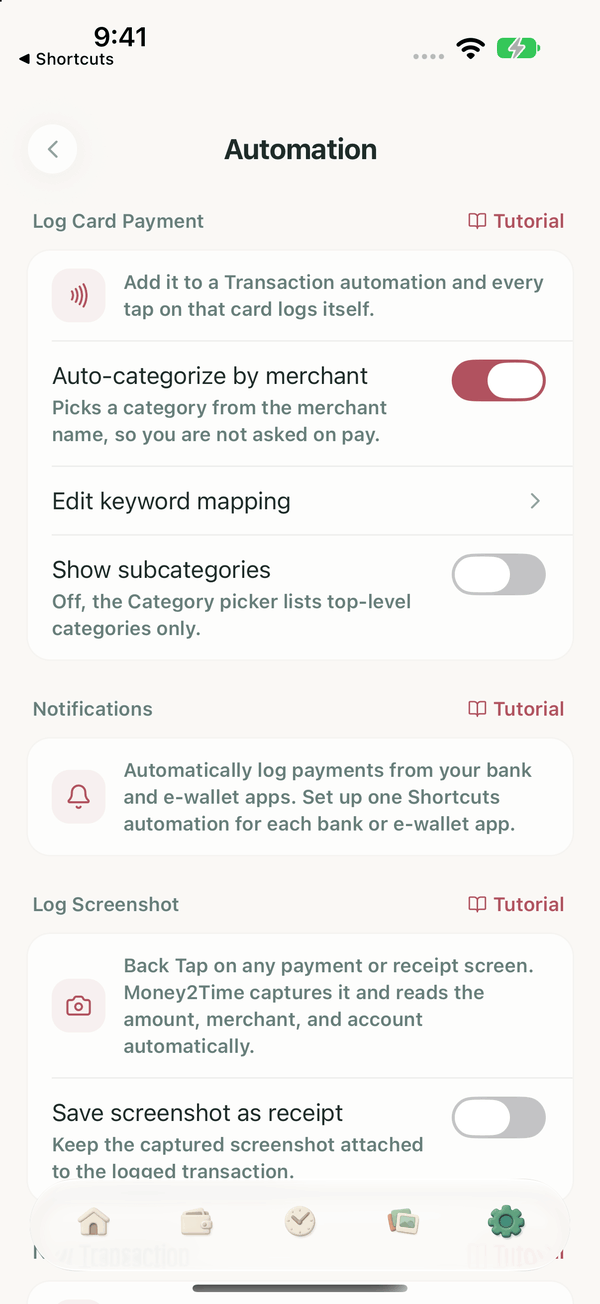
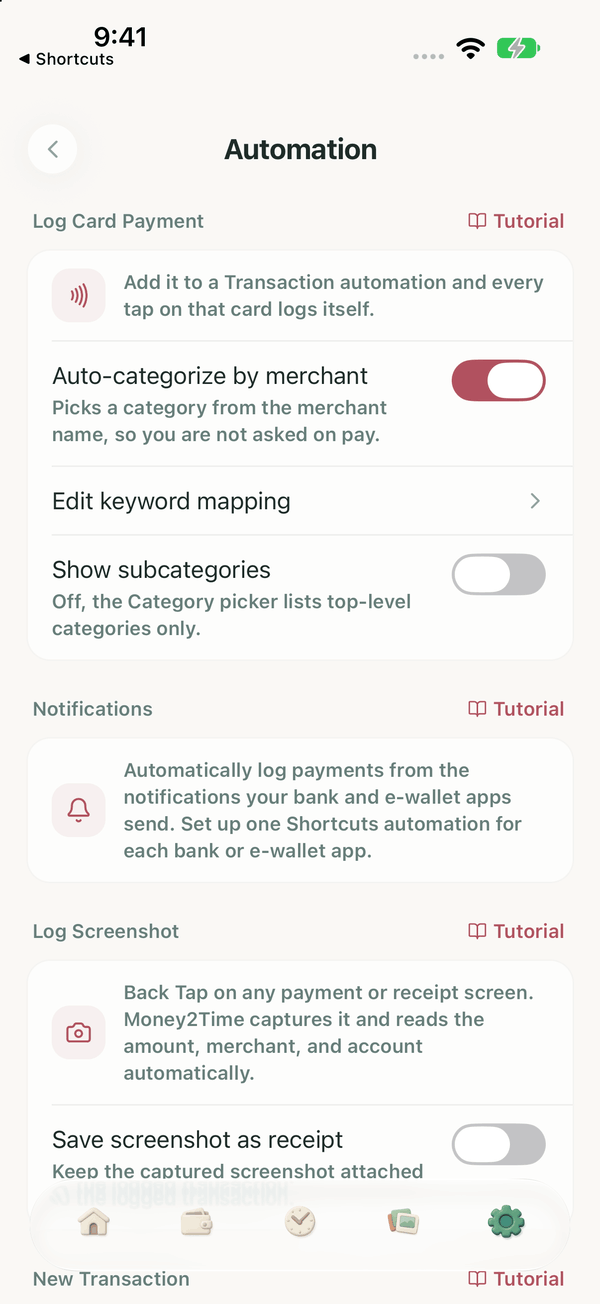
Tighten Notifications copy after review
- Quote the row and switch names in the Android tutorial's first step and
  say "Tap" rather than "Open", so "Log from notifications" no longer
  reads as part of the sentence.
- Say on the iOS Automation card that payments are logged from the
  notifications bank and e-wallet apps send, in all 24 locales.
- Fix the Korean and Turkish suffixes after "Log Notification".
- Update comments that still named the old action or screen.

diff --git a/lib/i18n/locales/th.ts b/lib/i18n/locales/th.ts
@@ -1202,7 +1202,7 @@ const th = {
       payment_alerts_status_off: 'ยังไม่ได้ตั้งค่า',
       payment_alerts_status_apps_one: 'เปิดสำหรับ %{count} แอป',
       payment_alerts_status_apps_other: 'เปิดสำหรับ %{count} แอป',
-      payment_alerts_android_step_1: 'เปิด บันทึกจากการแจ้งเตือน แล้วเปิด อ่านการแจ้งเตือน',
+      payment_alerts_android_step_1: 'แตะ “บันทึกจากการแจ้งเตือน” แล้วเปิด “อ่านการแจ้งเตือน”',
       payment_alerts_android_step_2:
         'Android จะเปิดหน้าสิทธิ์เข้าถึงการแจ้งเตือน หา Money2Time แล้วเปิด',
       payment_alerts_android_step_3:
@@ -2537,7 +2537,8 @@ const th = {
     title: 'การแจ้งเตือน',
     intro_android:
       'Money2Time อ่านการแจ้งเตือนการชำระเงินจากแอปธนาคารและแอปวอลเล็ตที่คุณเลือก แล้วบันทึกการชำระเงินแต่ละรายการให้คุณ การแจ้งเตือนจะถูกอ่านบนโทรศัพท์เครื่องนี้และไม่ถูกอัปโหลด',
-    intro_ios: 'บันทึกการชำระเงินจากแอปธนาคารและกระเป๋าเงินอิเล็กทรอนิกส์โดยอัตโนมัติ',
+    intro_ios:
+      'บันทึกการชำระเงินจากการแจ้งเตือนของแอปธนาคารและกระเป๋าเงินอิเล็กทรอนิกส์โดยอัตโนมัติ',
     section_status: 'สถานะ',
     master_label: 'อ่านการแจ้งเตือน',
     master_hint: 'บันทึกการชำระเงินจากแอปที่คุณเลือก',

diff --git a/lib/i18n/locales/hi.ts b/lib/i18n/locales/hi.ts
@@ -1215,7 +1215,8 @@ const hi = {
       payment_alerts_status_off: 'सेट अप नहीं',
       payment_alerts_status_apps_one: '%{count} ऐप के लिए चालू',
       payment_alerts_status_apps_other: '%{count} ऐप्स के लिए चालू',
-      payment_alerts_android_step_1: 'सूचनाओं से दर्ज करें खोलें और सूचनाएं पढ़ें चालू करें।',
+      payment_alerts_android_step_1:
+        '“सूचनाओं से दर्ज करें” पर टैप करें और “सूचनाएं पढ़ें” चालू करें।',
       payment_alerts_android_step_2:
         'Android सूचना पहुंच की स्क्रीन खोलता है। Money2Time ढूंढें और उसे चालू करें।',
       payment_alerts_android_step_3:
@@ -2573,7 +2574,7 @@ const hi = {
     title: 'सूचनाएं',
     intro_android:
       'Money2Time आपके चुने हुए बैंकिंग और वॉलेट ऐप्स की भुगतान सूचनाएं पढ़ता है और हर भुगतान आपके लिए दर्ज करता है। सूचनाएं इसी फ़ोन पर पढ़ी जाती हैं और कभी अपलोड नहीं होतीं।',
-    intro_ios: 'अपने बैंक और ई-वॉलेट ऐप के भुगतान अपने आप दर्ज करें।',
+    intro_ios: 'अपने बैंक और ई-वॉलेट ऐप की सूचनाओं से भुगतान अपने आप दर्ज करें।',
     section_status: 'स्थिति',
     master_label: 'सूचनाएं पढ़ें',
     master_hint: 'आपके चुने हुए ऐप्स के भुगतान दर्ज करता है।',

diff --git a/lib/i18n/locales/ko.ts b/lib/i18n/locales/ko.ts
@@ -1201,7 +1201,7 @@ const ko = {
       payment_alerts_status_off: '설정 안 됨',
       payment_alerts_status_apps_one: '앱 %{count}개에서 켜짐',
       payment_alerts_status_apps_other: '앱 %{count}개에서 켜짐',
-      payment_alerts_android_step_1: '알림으로 기록을 열고 알림 읽기를 켜세요.',
+      payment_alerts_android_step_1: '“알림으로 기록”을 누르고 “알림 읽기”를 켜세요.',
       payment_alerts_android_step_2:
         'Android의 알림 접근 화면이 열립니다. Money2Time을 찾아 켜세요.',
       payment_alerts_android_step_3:
@@ -1215,7 +1215,7 @@ const ko = {
       payment_alerts_ios_step_1:
         'Shortcuts를 열고 +, Edit를 누르세요. 편집기에서 Automation을 누르세요.',
       payment_alerts_ios_step_2: 'Notification을 검색해 선택하세요.',
-      payment_alerts_ios_step_3: 'Log Notification를 검색해 추가하세요.',
+      payment_alerts_ios_step_3: 'Log Notification을 검색해 추가하세요.',
       payment_alerts_ios_step_4: 'Log Notification에서 Message, Select Variable을 누르세요.',
       payment_alerts_ios_step_6:
         '동작 화살표를 탭한 다음 Account를 탭하세요. 이 앱의 결제를 기록할 계좌를 선택하세요. Category를 비워 두면 키워드로 자동 분류됩니다.',
@@ -2548,7 +2548,7 @@ const ko = {
     title: '알림',
     intro_android:
       'Money2Time이 선택한 은행 앱과 간편결제 앱의 결제 알림을 읽고 결제를 하나하나 기록합니다. 알림은 이 기기에서만 읽으며 업로드되지 않습니다.',
-    intro_ios: '은행 및 전자 지갑 앱의 결제를 자동으로 기록합니다.',
+    intro_ios: '은행 및 전자 지갑 앱의 알림으로 결제를 자동으로 기록합니다.',
     section_status: '상태',
     master_label: '알림 읽기',
     master_hint: '선택한 앱의 결제를 기록합니다.',

diff --git a/lib/i18n/locales/tr.ts b/lib/i18n/locales/tr.ts
@@ -1226,7 +1226,7 @@ const tr = {
       payment_alerts_status_apps_one: '%{count} uygulama için açık',
       payment_alerts_status_apps_other: '%{count} uygulama için açık',
       payment_alerts_android_step_1:
-        'Bildirimlerden kaydet bölümünü açıp Bildirimleri oku seçeneğini etkinleştirin.',
+        '“Bildirimlerden kaydet” bölümüne dokunup “Bildirimleri oku” seçeneğini etkinleştirin.',
       payment_alerts_android_step_2:
         "Android bildirim erişimi ekranını açar. Money2Time'ı bulun ve açın.",
       payment_alerts_android_step_3:
@@ -1241,7 +1241,7 @@ const tr = {
       payment_alerts_ios_step_1:
         'Shortcuts uygulamasında +, ardından Edit seçeneğine dokunun. Düzenleyicide Automation seçeneğine dokunun.',
       payment_alerts_ios_step_2: 'Notification arayıp seçin.',
-      payment_alerts_ios_step_3: 'Log Notification’i arayın ve ekleyin.',
+      payment_alerts_ios_step_3: 'Log Notification eylemini arayıp ekleyin.',
       payment_alerts_ios_step_4:
         'Log Notification içinde Message, ardından Select Variable seçeneğine dokunun.',
       payment_alerts_ios_step_6:
@@ -2593,7 +2593,7 @@ const tr = {
     title: 'Bildirimler',
     intro_android:
       'Money2Time, seçtiğiniz banka ve cüzdan uygulamalarının ödeme bildirimlerini okur ve her ödemeyi sizin için kaydeder. Bildirimler bu telefonda okunur ve asla yüklenmez.',
-    intro_ios: 'Banka ve e-cüzdan uygulamalarınızdaki ödemeleri otomatik kaydedin.',
+    intro_ios: 'Banka ve e-cüzdan uygulamalarınızın bildirimlerindeki ödemeleri otomatik kaydedin.',
     section_status: 'Durum',
     master_label: 'Bildirimleri oku',
     master_hint: 'Seçtiğiniz uygulamalardaki ödemeleri kaydeder.',

diff --git a/lib/i18n/locales/vi.ts b/lib/i18n/locales/vi.ts
@@ -1211,7 +1211,7 @@ const vi = {
       payment_alerts_status_off: 'Chưa thiết lập',
       payment_alerts_status_apps_one: 'Bật cho %{count} ứng dụng',
       payment_alerts_status_apps_other: 'Bật cho %{count} ứng dụng',
-      payment_alerts_android_step_1: 'Mở Ghi từ thông báo và bật Đọc thông báo.',
+      payment_alerts_android_step_1: 'Nhấn “Ghi từ thông báo” rồi bật “Đọc thông báo”.',
       payment_alerts_android_step_2:
         'Android mở màn hình quyền truy cập thông báo. Tìm Money2Time và bật lên.',
       payment_alerts_android_step_3:
@@ -2565,7 +2565,7 @@ const vi = {
     title: 'Thông báo',
     intro_android:
       'Money2Time đọc thông báo thanh toán từ các ứng dụng ngân hàng và ví điện tử bạn chọn, rồi ghi lại từng khoản thanh toán cho bạn. Thông báo được đọc trên điện thoại này và không bao giờ được tải lên.',
-    intro_ios: 'Tự động ghi lại thanh toán từ các ứng dụng ngân hàng và ví điện tử.',
+    intro_ios: 'Tự động ghi lại thanh toán từ thông báo của các ứng dụng ngân hàng và ví điện tử.',
     section_status: 'Trạng thái',
     master_label: 'Đọc thông báo',
     master_hint: 'Ghi lại thanh toán từ các ứng dụng bạn chọn.',

diff --git a/lib/i18n/locales/pl.ts b/lib/i18n/locales/pl.ts
@@ -1223,7 +1223,8 @@ const pl = {
       payment_alerts_status_off: 'Nieskonfigurowane',
       payment_alerts_status_apps_one: 'Włączone dla %{count} aplikacji',
       payment_alerts_status_apps_other: 'Włączone, aplikacje: %{count}',
-      payment_alerts_android_step_1: 'Otwórz Zapisuj z powiadomień i włącz Odczytuj powiadomienia.',
+      payment_alerts_android_step_1:
+        'Stuknij „Zapisuj z powiadomień” i włącz „Odczytuj powiadomienia”.',
       payment_alerts_android_step_2:
         'Android otworzy ekran dostępu do powiadomień. Znajdź Money2Time i włącz go.',
       payment_alerts_android_step_3:
@@ -2592,7 +2593,8 @@ const pl = {
     title: 'Powiadomienia',
     intro_android:
       'Money2Time odczytuje powiadomienia o płatnościach z wybranych aplikacji bankowych i portfeli, a potem zapisuje za Ciebie każdą płatność. Powiadomienia są odczytywane na tym telefonie i nigdy nie są wysyłane.',
-    intro_ios: 'Automatycznie zapisuj płatności z aplikacji bankowych i portfeli elektronicznych.',
+    intro_ios:
+      'Automatycznie zapisuj płatności z powiadomień aplikacji bankowych i portfeli elektronicznych.',
     section_status: 'Stan',
     master_label: 'Odczytuj powiadomienia',
     master_hint: 'Zapisuje płatności z wybranych aplikacji.',

diff --git a/lib/i18n/locales/pt.ts b/lib/i18n/locales/pt.ts
@@ -1225,7 +1225,8 @@ const pt = {
       payment_alerts_status_off: 'Não configurado',
       payment_alerts_status_apps_one: 'Ativado para %{count} app',
       payment_alerts_status_apps_other: 'Ativado para %{count} apps',
-      payment_alerts_android_step_1: 'Abra Registrar das notificações e ative Ler notificações.',
+      payment_alerts_android_step_1:
+        'Toque em “Registrar das notificações” e ative “Ler notificações”.',
       payment_alerts_android_step_2:
         'O Android abre a tela de acesso a notificações. Encontre o Money2Time e ative.',
       payment_alerts_android_step_3:
@@ -2597,7 +2598,8 @@ const pt = {
     title: 'Notificações',
     intro_android:
       'O Money2Time lê as notificações de pagamento dos apps de banco e carteiras que você escolher e registra cada pagamento para você. As notificações são lidas neste celular e nunca são enviadas.',
-    intro_ios: 'Registre automaticamente pagamentos dos seus apps de banco e carteiras digitais.',
+    intro_ios:
+      'Registre automaticamente pagamentos das notificações dos seus apps de banco e carteiras digitais.',
     section_status: 'Status',
     master_label: 'Ler notificações',
     master_hint: 'Registra os pagamentos dos apps que você escolher.',

diff --git a/lib/i18n/locales/fr.ts b/lib/i18n/locales/fr.ts
@@ -1233,7 +1233,7 @@ const fr = {
       payment_alerts_status_apps_one: 'Activé pour %{count} appli',
       payment_alerts_status_apps_other: 'Activé pour %{count} applis',
       payment_alerts_android_step_1:
-        'Ouvrez Enregistrer depuis les notifications et activez Lire les notifications.',
+        'Touchez « Enregistrer depuis les notifications » et activez « Lire les notifications ».',
       payment_alerts_android_step_2:
         'Android ouvre l’écran d’accès aux notifications. Trouvez Money2Time et activez-le.',
       payment_alerts_android_step_3:
@@ -2616,7 +2616,7 @@ const fr = {
     intro_android:
       'Money2Time lit les notifications de paiement des applis bancaires et portefeuilles que vous choisissez, et enregistre chaque paiement pour vous. Les notifications sont lues sur ce téléphone et ne sont jamais envoyées en ligne.',
     intro_ios:
-      'Enregistrez automatiquement les paiements de vos apps bancaires et portefeuilles électroniques.',
+      'Enregistrez automatiquement les paiements à partir des notifications de vos apps bancaires et portefeuilles électroniques.',
     section_status: 'État',
     master_label: 'Lire les notifications',
     master_hint: 'Enregistre les paiements des applis que vous choisissez.',

diff --git a/lib/i18n/locales/fil.ts b/lib/i18n/locales/fil.ts
@@ -1237,7 +1237,7 @@ const fil = {
       payment_alerts_status_apps_one: 'Naka-on para sa %{count} app',
       payment_alerts_status_apps_other: 'Naka-on para sa %{count} na app',
       payment_alerts_android_step_1:
-        'Buksan ang Itala mula sa mga notification at i-on ang Basahin ang mga notification.',
+        'I-tap ang “Itala mula sa mga notification” at i-on ang “Basahin ang mga notification”.',
       payment_alerts_android_step_2:
         'Bubuksan ng Android ang screen ng notification access. Hanapin ang Money2Time at i-on ito.',
       payment_alerts_android_step_3:
@@ -2616,7 +2616,8 @@ const fil = {
     title: 'Mga notification',
     intro_android:
       'Binabasa ng Money2Time ang mga notification ng bayad mula sa mga banking at wallet app na pinili mo, at itinatala nito ang bawat bayad para sa iyo. Sa phone na ito binabasa ang mga notification at hindi kailanman ina-upload.',
-    intro_ios: 'Awtomatikong itala ang mga bayad mula sa iyong bank at e-wallet apps.',
+    intro_ios:
+      'Awtomatikong itala ang mga bayad mula sa mga notification ng iyong bank at e-wallet apps.',
     section_status: 'Status',
     master_label: 'Basahin ang mga notification',
     master_hint: 'Itinatala ang mga bayad mula sa mga app na pinili mo.',

diff --git a/lib/i18n/locales/it.ts b/lib/i18n/locales/it.ts
@@ -1224,7 +1224,8 @@ const it = {
       payment_alerts_status_off: 'Non configurato',
       payment_alerts_status_apps_one: 'Attivo per %{count} app',
       payment_alerts_status_apps_other: 'Attivo per %{count} app',
-      payment_alerts_android_step_1: 'Apri Registra dalle notifiche e attiva Leggi le notifiche.',
+      payment_alerts_android_step_1:
+        'Tocca “Registra dalle notifiche” e attiva “Leggi le notifiche”.',
       payment_alerts_android_step_2:
         'Android apre la schermata di accesso alle notifiche. Trova Money2Time e attivalo.',
       payment_alerts_android_step_3:
@@ -2598,7 +2599,8 @@ const it = {
     title: 'Notifiche',
     intro_android:
       'Money2Time legge le notifiche di pagamento delle app bancarie e dei wallet che scegli e registra ogni pagamento per te. Le notifiche vengono lette su questo telefono e non vengono mai caricate.',
-    intro_ios: 'Registra automaticamente i pagamenti dalle app bancarie e dai portafogli digitali.',
+    intro_ios:
+      'Registra automaticamente i pagamenti dalle notifiche delle app bancarie e dei portafogli digitali.',
     section_status: 'Stato',
     master_label: 'Leggi le notifiche',
     master_hint: 'Registra i pagamenti delle app che scegli.',

diff --git a/lib/i18n/locales/de.ts b/lib/i18n/locales/de.ts
@@ -1235,7 +1235,7 @@ const de = {
       payment_alerts_status_apps_one: 'An für %{count} App',
       payment_alerts_status_apps_other: 'An für %{count} Apps',
       payment_alerts_android_step_1:
-        'Öffne Aus Benachrichtigungen erfassen und aktiviere Benachrichtigungen lesen.',
+        'Tippe auf „Aus Benachrichtigungen erfassen“ und aktiviere „Benachrichtigungen lesen“.',
       payment_alerts_android_step_2:
         'Android öffnet den Bildschirm für Benachrichtigungszugriff. Suche Money2Time und schalte es ein.',
       payment_alerts_android_step_3:
@@ -2619,7 +2619,8 @@ const de = {
     title: 'Benachrichtigungen',
     intro_android:
       'Money2Time liest die Zahlungsbenachrichtigungen der Banking- und Wallet-Apps, die du auswählst, und erfasst jede Zahlung für dich. Benachrichtigungen werden auf diesem Handy gelesen und nie hochgeladen.',
-    intro_ios: 'Erfasse Zahlungen aus deinen Banking- und Wallet-Apps automatisch.',
+    intro_ios:
+      'Erfasse Zahlungen automatisch aus den Benachrichtigungen deiner Banking- und Wallet-Apps.',
     section_status: 'Status',
     master_label: 'Benachrichtigungen lesen',
     master_hint: 'Erfasst Zahlungen aus den Apps, die du auswählst.',

diff --git a/lib/i18n/locales/id.ts b/lib/i18n/locales/id.ts
@@ -1226,7 +1226,8 @@ const id = {
       payment_alerts_status_off: 'Belum diatur',
       payment_alerts_status_apps_one: 'Aktif untuk %{count} aplikasi',
       payment_alerts_status_apps_other: 'Aktif untuk %{count} aplikasi',
-      payment_alerts_android_step_1: 'Buka Catat dari notifikasi dan aktifkan Baca notifikasi.',
+      payment_alerts_android_step_1:
+        'Ketuk “Catat dari notifikasi” lalu aktifkan “Baca notifikasi”.',
       payment_alerts_android_step_2:
         'Android membuka layar akses notifikasi. Cari Money2Time dan aktifkan.',
       payment_alerts_android_step_3:
@@ -2595,7 +2596,7 @@ const id = {
     title: 'Notifikasi',
     intro_android:
       'Money2Time membaca notifikasi pembayaran dari aplikasi bank dan dompet digital yang Anda pilih, lalu mencatat setiap pembayaran untuk Anda. Notifikasi dibaca di ponsel ini dan tidak pernah diunggah.',
-    intro_ios: 'Catat pembayaran dari aplikasi bank dan dompet digital secara otomatis.',
+    intro_ios: 'Catat pembayaran secara otomatis dari notifikasi aplikasi bank dan dompet digital.',
     section_status: 'Status',
     master_label: 'Baca notifikasi',
     master_hint: 'Mencatat pembayaran dari aplikasi yang Anda pilih.',
